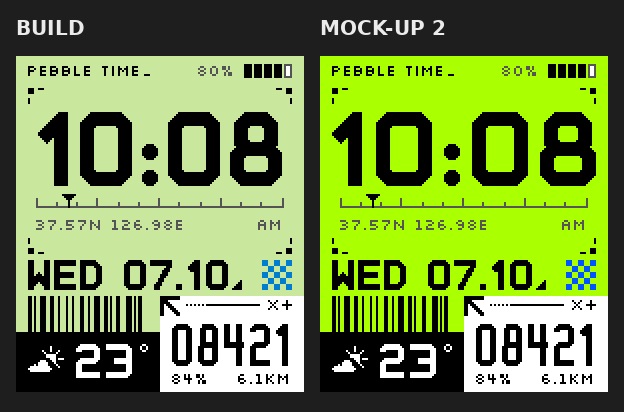
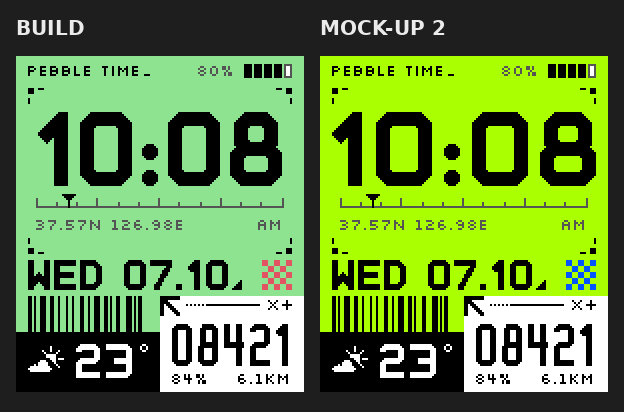
TR-S 35: fixed green/white/black palette, red checker, 6 color presets
Colors are now only green, white and black plus a strong red checker;
the presets move the three colors between the field, the weather block
and the steps panel (all 3! = 6 arrangements). Empty battery cells are
always white inside so they never read as full on a black panel.
Version 1.2.0.

Claude-Session: https://claude.ai/code/session_01XQdpjbs7xMWJD45bmpg399

Changed region(s): [[0.0, 0.1165, 0.4872, 0.8155]]

diff --git a/pebble/trs35/src/pkjs/config.js b/pebble/trs35/src/pkjs/config.js
@@ -8,23 +8,20 @@ function swatch(colors) {
   }).join('');
 }
 
-// Same order and colors as src/c/theme.c (Pebble palette values):
-// field, main ink, block, panel, spot.
+// Same order as src/c/theme.c: the fixed green / white / black palette with
+// a red checker; presets only move the three colors between the field, the
+// weather block and the steps panel. Swatches: field, block, panel, checker.
+var G = '#00FF00', W = '#FFFFFF', K = '#000000', R = '#FF0000';
 var THEMES = [
-  ['LIME', 'Acid lime, black and white blocks, blue spot', ['#AAFF00', '#000000', '#000000', '#FFFFFF', '#0055FF']],
-  ['MINT', 'Pale mint field', ['#AAFFFF', '#000000', '#000000', '#FFFFFF', '#0055FF']],
-  ['ACID', 'Black field, lime block', ['#000000', '#FFFFFF', '#AAFF00', '#FFFFFF', '#55FFFF']],
-  ['VIOLET', 'Black field, violet block', ['#000000', '#FFFFFF', '#AA55FF', '#FFFFFF', '#AAFF00']],
-  ['SIGNAL', 'White paper, lime panel', ['#FFFFFF', '#000000', '#000000', '#AAFF00', '#0055FF']],
-  ['NULL', 'Hot pink field', ['#FF0055', '#000000', '#000000', '#FFFFFF', '#000000']],
-  ['FLARE', 'Ultramarine field, lime panel', ['#5500FF', '#FFFFFF', '#000000', '#AAFF00', '#FF0055']],
-  ['GREEN', 'Pure green field, the most vivid on the watch', ['#00FF00', '#000000', '#000000', '#FFFFFF', '#0055FF']]
+  ['GREEN · BLACK · WHITE', 'Green field, black weather, white steps', [G, K, W, R]],
+  ['GREEN · WHITE · BLACK', 'Green field, white weather, black steps', [G, W, K, R]],
+  ['WHITE · BLACK · GREEN', 'White field, black weather, green steps', [W, K, G, R]],
+  ['WHITE · GREEN · BLACK', 'White field, green weather, black steps', [W, G, K, R]],
+  ['BLACK · GREEN · WHITE', 'Black field, green weather, white steps', [K, G, W, R]],
+  ['BLACK · WHITE · GREEN', 'Black field, white weather, green steps', [K, W, G, R]]
 ];
-// shown in this order (GREEN first, it is the default); values stay the
-// theme.c indexes
-var THEME_ORDER = [7, 0, 1, 2, 3, 4, 5, 6];
 
-var themeTable = THEME_ORDER.map(function(i) { return THEMES[i]; }).map(function(t) {
+var themeTable = THEMES.map(function(t) {
   return '<div style="margin:6px 0">' + swatch(t[2]) +
     ' <b>' + t[0] + '</b> <small>' + t[1] + '</small></div>';
 }).join('');
@@ -45,10 +42,10 @@ module.exports = [
       {
         type: 'select',
         messageKey: 'THEME',
-        label: '색 테마 / Color theme',
-        defaultValue: '7',
-        options: THEME_ORDER.map(function(i) {
-          return { label: THEMES[i][0] + ' — ' + THEMES[i][1], value: String(i) };
+        label: '색 배치 / Colors (바탕 · 날씨 · 걸음)',
+        defaultValue: '0',
+        options: THEMES.map(function(t, i) {
+          return { label: t[0], value: String(i) };
         })
       },
       { type: 'text', defaultValue: themeTable },

diff --git a/pebble/trs35/src/c/theme.c b/pebble/trs35/src/c/theme.c
@@ -1,27 +1,27 @@
 #include "theme.h"
 #include "state.h"
 
-// Pebble palette colors (see tools/palette_map.py and README "색 매핑").
-// Each theme uses its field, black/white blocks and one spot color.
+// The palette is fixed: green, white and black, plus a strong red for the
+// checker. The presets only move the three colors between the field, the
+// weather block and the steps panel (3! = 6 arrangements). Text takes black
+// on green / white and white on black; small labels and the ruler use the
+// matching grey.
 #define C(x) {GColor##x##ARGB8}
+#define ON_LIGHT C(Black), C(DarkGray)
+#define ON_DARK C(White), C(LightGray)
+#define GREEN_BLK C(Green), C(Black)
+#define WHITE_BLK C(White), C(Black)
+#define BLACK_BLK C(Black), C(White)
+#define RED C(Red)
+
+// field, fg, muted, block, block_ink, panel, panel_ink, accent
 static const Theme s_themes[THEME_COUNT] = {
-  // 0 LIME: acid-lime field, black and white blocks, blue spot (the mock-up)
-  { C(SpringBud), C(Black), C(DarkGray), C(Black), C(White), C(White), C(Black), C(BlueMoon) },
-  // 1 MINT: pale mint field
-  { C(Celeste), C(Black), C(DarkGray), C(Black), C(White), C(White), C(Black), C(BlueMoon) },
-  // 2 ACID: black field, lime block
-  { C(Black), C(White), C(LightGray), C(SpringBud), C(Black), C(White), C(Black), C(ElectricBlue) },
-  // 3 VIOLET: black field, violet block, lime spot
-  { C(Black), C(White), C(LightGray), C(LavenderIndigo), C(Black), C(White), C(Black), C(SpringBud) },
-  // 4 SIGNAL: white paper, lime panel
-  { C(White), C(Black), C(DarkGray), C(Black), C(White), C(SpringBud), C(Black), C(BlueMoon) },
-  // 5 NULL: hot pink field, white panel, black spot
-  { C(Folly), C(Black), C(White), C(Black), C(White), C(White), C(Black), C(Black) },
-  // 6 FLARE: ultramarine field, lime panel, pink spot
-  { C(ElectricUltramarine), C(White), C(Celeste), C(Black), C(White), C(SpringBud), C(Black), C(Folly) },
-  // 7 GREEN: LIME on pure green, the most saturated field the Pebble Time
-  // panel can show (SpringBud reads pale on the reflective screen)
-  { C(Green), C(Black), C(DarkGray), C(Black), C(White), C(White), C(Black), C(BlueMoon) },
+  { C(Green), ON_LIGHT, BLACK_BLK, WHITE_BLK, RED },  // 0 green field, black block, white panel
+  { C(Green), ON_LIGHT, WHITE_BLK, BLACK_BLK, RED },  // 1 green field, white block, black panel
+  { C(White), ON_LIGHT, BLACK_BLK, GREEN_BLK, RED },  // 2 white field, black block, green panel
+  { C(White), ON_LIGHT, GREEN_BLK, BLACK_BLK, RED },  // 3 white field, green block, black panel
+  { C(Black), ON_DARK, GREEN_BLK, WHITE_BLK, RED },   // 4 black field, green block, white panel
+  { C(Black), ON_DARK, WHITE_BLK, GREEN_BLK, RED },   // 5 black field, white block, green panel
 };
 
 const Theme *theme_get(void) {

diff --git a/pebble/trs35/src/c/face.c b/pebble/trs35/src/c/face.c
@@ -101,14 +101,15 @@ static void header_update(Layer *layer, GContext *ctx) {
   }
 
   // battery: five 4x7 cells ending on the right margin; empty ones are a
-  // muted outline around the panel color
+  // muted outline around white (never the panel color: on a black panel an
+  // empty cell would read as full)
   int pct = g_battery.charge_percent;
   int cells_x = b.size.w - MARGIN - 5 * 5 + 1;
   int filled = (pct + 19) / 20;
   for (int i = 0; i < 5; i++) {
     GRect cell = GRect(cells_x + i * 5, y - 1, 4, 7);
     fill(ctx, cell, i < filled ? th->fg : th->muted);
-    if (i >= filled) fill(ctx, grect_inset(cell, GEdgeInsets(1)), th->panel);
+    if (i >= filled) fill(ctx, grect_inset(cell, GEdgeInsets(1)), GColorWhite);
   }
   char buf[8];
   snprintf(buf, sizeof(buf), g_battery.is_charging ? "+%d%%" : "%d%%", pct);

diff --git a/pebble/trs35/src/c/state.h b/pebble/trs35/src/c/state.h
@@ -7,7 +7,7 @@ typedef enum { CLOCK_AUTO = 0, CLOCK_12H = 1, CLOCK_24H = 2 } ClockMode;
 typedef enum { UNIT_C = 0, UNIT_F = 1 } TempUnit;
 typedef enum { DATE_DM = 0, DATE_KR = 1 } DateFormat;  // WED 07.10 / 10.08 THU
 
-#define THEME_COUNT 8
+#define THEME_COUNT 6
 #define LAYOUT_COUNT 3
 
 typedef struct {

diff --git a/pebble/trs35/src/c/state.c b/pebble/trs35/src/c/state.c
@@ -8,7 +8,7 @@
 #define WEATHER_STALE_SEC (3 * 60 * 60)
 
 Settings g_settings = {
-  .theme = 7,   // GREEN
+  .theme = 0,   // green field, black block, white panel
   .layout = 0,  // STACK
   .clock_mode = CLOCK_AUTO,
   .temp_unit = UNIT_C,

diff --git a/pebble/trs35/README.md b/pebble/trs35/README.md
@@ -53,26 +53,20 @@ make demo
 
 `resources/fonts/{time,date,temp,steps}.ttf`는 git이 무시한다. 빌드할 때 FreeType으로 숫자 높이·위치·오른쪽 여백을 다시 재서 정렬이 자동으로 맞는다(`wscript`의 `FM_*`). 되돌리기: `make font-reset`.
 
-### 테마 (모두 Pebble 64색, `tools/palette_map.py`로 레퍼런스 색에서 매핑)
+### 색
 
-![테마와 배치](docs/screenshots/11-themes-layouts.png)
+색은 **초록 Green `#00FF00` · 흰 · 검정** 3색과 체커의 **빨강 Red `#FF0000`**으로 고정했다(보조 글자·눈금은 회색). 실제 Pebble Time(반사형 LCD)에서 SpringBud 라임이 많이 바래 보여서, 팔레트에서 채도가 가장 높은 Green을 쓴다. 색 프리셋은 이 세 색을 바탕 · 날씨 블록 · 걸음 패널 자리에 바꿔 놓는 3! = 6가지다. 글자는 초록·흰 위에서 검정, 검정 위에서 흰색.
 
-| # | 이름 | 바탕 | 블록 / 패널 | 포인트 |
-|---|---|---|---|---|
-| 7 | GREEN (기본) | Green `#00FF00` | 검정 / 흰 | BlueMoon `#0055FF` |
-| 0 | LIME (시안) | SpringBud `#AAFF00` | 검정 / 흰 | BlueMoon |
-| 1 | MINT | Celeste `#AAFFFF` | 검정 / 흰 | BlueMoon |
-| 2 | ACID | 검정 | 라임 / 흰 | ElectricBlue |
-| 3 | VIOLET | 검정 | LavenderIndigo / 흰 | SpringBud |
-| 4 | SIGNAL | 흰 | 검정 / 라임 | BlueMoon |
-| 5 | NULL | Folly `#FF0055` | 검정 / 흰 | 검정 |
-| 6 | FLARE | ElectricUltramarine | 검정 / 라임 | Folly |
+![색 배치 6종](docs/screenshots/16-colors.png)
 
-레퍼런스 색 매핑 예: 라임 `#C6FF33`→SpringBud(ΔE 12.5), 민트 `#CAEADA`→Celeste, 파랑 `#1D6FF9`→BlueMoon, 핫핑크 `#FF0961`→Folly(ΔE 6.7), 바이올렛 `#7D39EB`→LavenderIndigo.
-
-실제 Pebble Time(반사형 LCD)에서는 SpringBud 바탕이 많이 바래 보여서, 팔레트에서 가장 채도가 높은 Green을 바탕으로 쓴 GREEN을 기본으로 했다. 설정 화면에서도 맨 위에 나온다.
-
-![GREEN과 한국식 날짜](docs/screenshots/15-green-kr-date.png)
+| # | 바탕 | 날씨 블록 | 걸음 패널 |
+|---|---|---|---|
+| 1 (기본) | 초록 | 검정 | 흰 |
+| 2 | 초록 | 흰 | 검정 |
+| 3 | 흰 | 검정 | 초록 |
+| 4 | 흰 | 초록 | 검정 |
+| 5 | 검정 | 초록 | 흰 |
+| 6 | 검정 | 흰 | 초록 |
 
 배치 프리셋 3개는 모듈 크기가 같고 위치만 다르다: STACK(기본) / SWAP(두 칸 좌우 교체) / INVERT(칸 위, 시계 아래).
 
